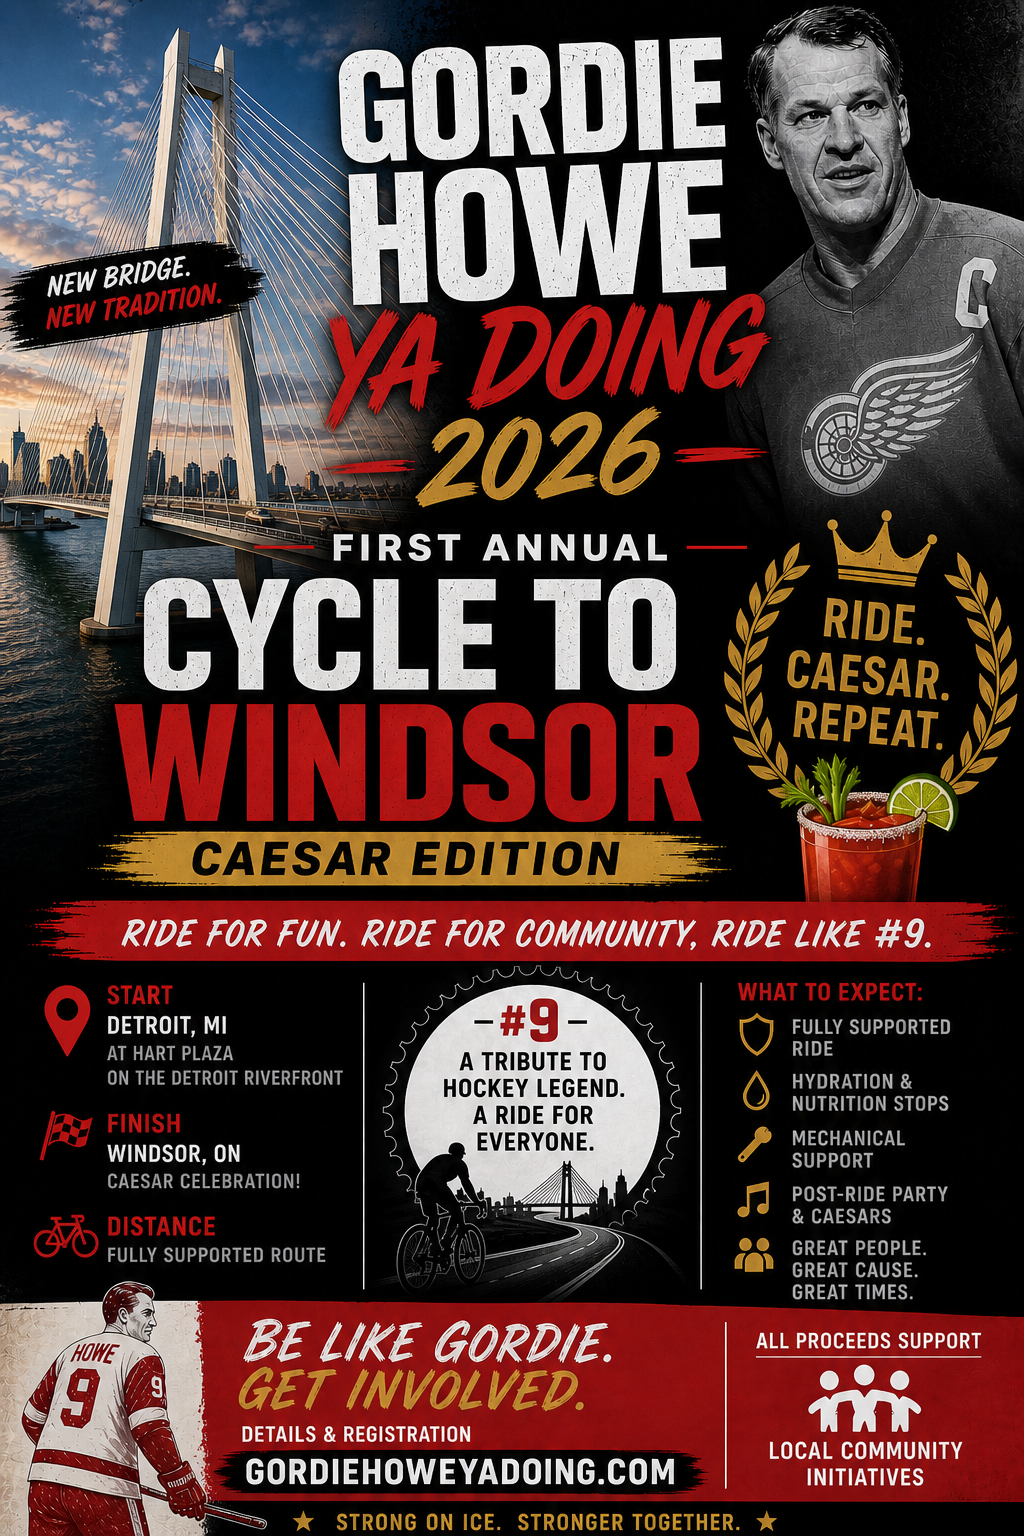
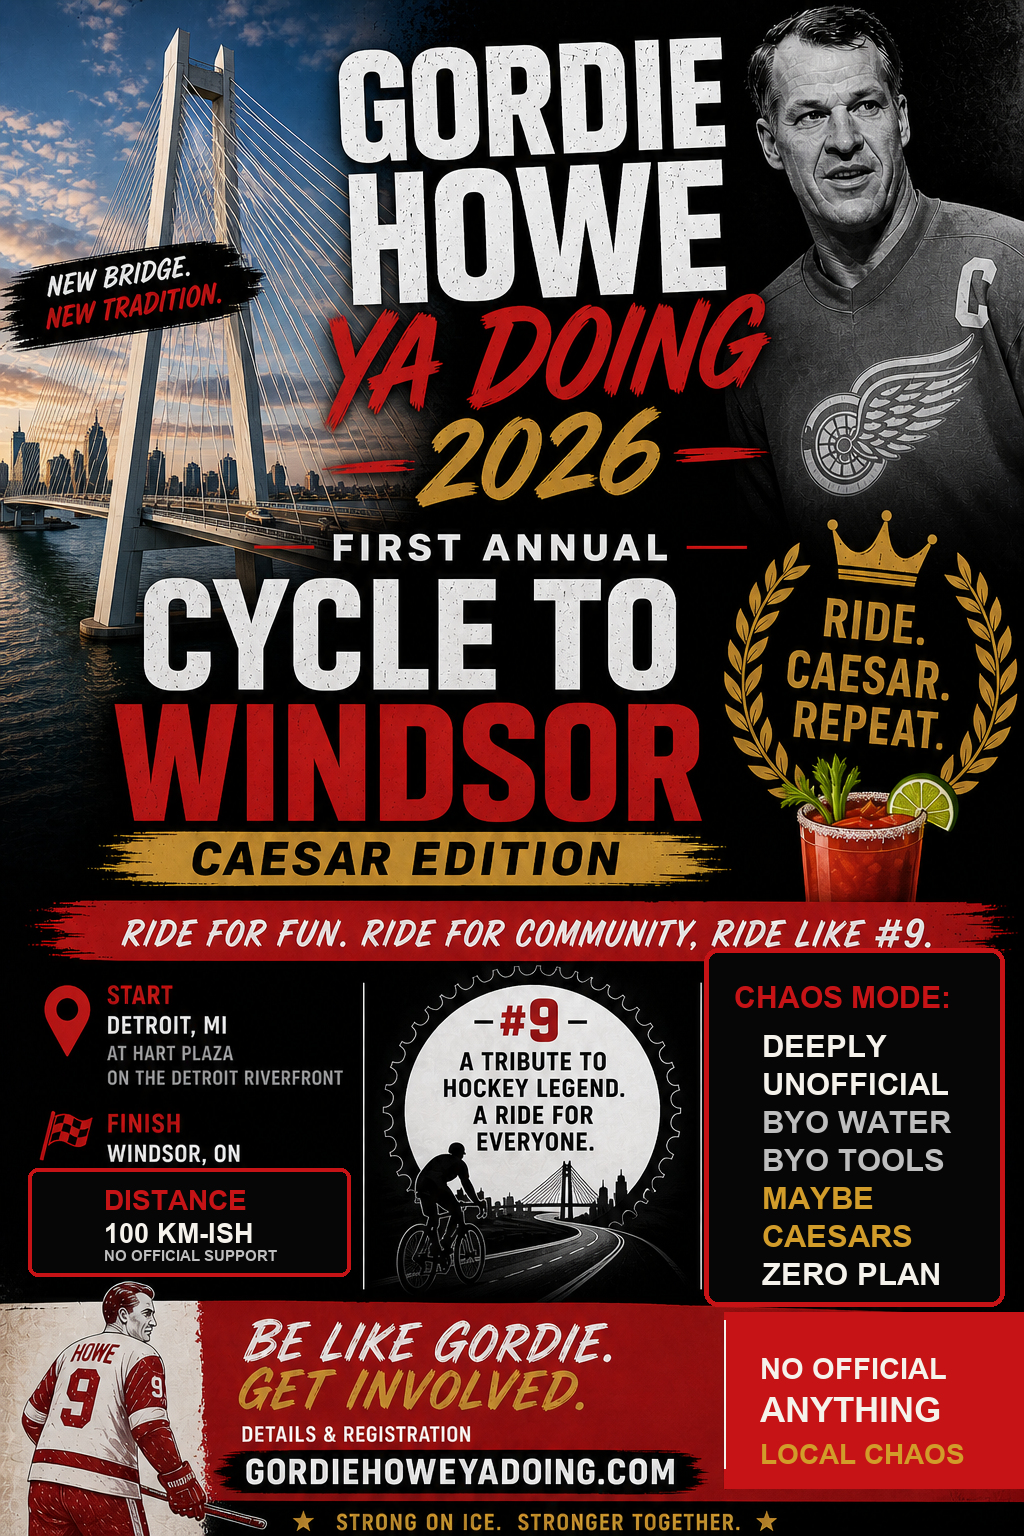
Clarify unofficial ride expectations

Changed region(s): [[0.6875, 0.5938, 1.0, 0.9688], [0.0, 0.75, 0.3438, 0.8438]]

diff --git a/src/App.tsx b/src/App.tsx
@@ -3,21 +3,21 @@ import poster from './assets/gordie-poster.png'
 
 const rideStats = [
   { label: 'Start', value: 'Detroit, MI', detail: 'Hart Plaza, riverfront roll-out' },
-  { label: 'Finish', value: 'Windsor, ON', detail: 'Caesar celebration zone' },
+  { label: 'Finish', value: 'Windsor, ON', detail: 'Probably near Caesars?' },
 ]
 
 const expectations = [
-  'Fully supported ride',
-  'Route support & goofy shenanigans',
-  'Mechanical support',
-  'Post-ride party & Caesars',
-  'Great people. Great cause. Great times.',
+  'Deeply unofficial vibes',
+  'BYO water, tools, snacks, common sense',
+  'Probably no one is in charge',
+  'Maybe Caesars if legs still work',
+  'Great people. Questionable plan. Great times.',
 ]
 
 const goofyRules = [
   'Helmet hair encouraged',
   'Bridge vibes mandatory',
-  'Legends ride at party pace',
+  'Legends ride at chaos pace',
   'Caesar mustaches optional',
 ]
 
@@ -273,6 +273,7 @@ function App() {
           <div className="grid gap-5 md:grid-cols-2">
             <article className="rounded-[2rem] border-4 border-black bg-red p-6 text-white shadow-black">
               <p className="text-sm font-black uppercase tracking-[0.3em] text-gold">What to expect</p>
+              <h2 className="mt-3 text-4xl font-black uppercase leading-none">Chaos mode.</h2>
               <ul className="mt-5 space-y-4">
                 {expectations.map((item) => (
                   <li className="flex gap-3 text-lg font-black uppercase leading-tight" key={item}>
@@ -290,7 +291,7 @@ function App() {
                 Be like Gordie.
               </h2>
               <p className="relative mt-4 text-lg font-black uppercase leading-tight">
-                Register, volunteer, cheer, donate, or just show up with maximum silly enthusiasm.
+                Drop your name, bring your bike, and prepare for a beautifully unorganized situation.
               </p>
               <form className="relative mt-6 space-y-3" onSubmit={handleRegistration}>
                 <label className="block">
@@ -323,7 +324,7 @@ function App() {
               {registration && (
                 <p className="relative mt-4 rounded-2xl border-4 border-black bg-cream px-4 py-3 text-base font-black uppercase leading-tight text-black">
                   {registration.name}, you are unofficially-officially ready to roll. We will nudge{' '}
-                  {registration.email} when registration opens.
+                  {registration.email} when the chaos starts.
                 </p>
               )}
             </article>
